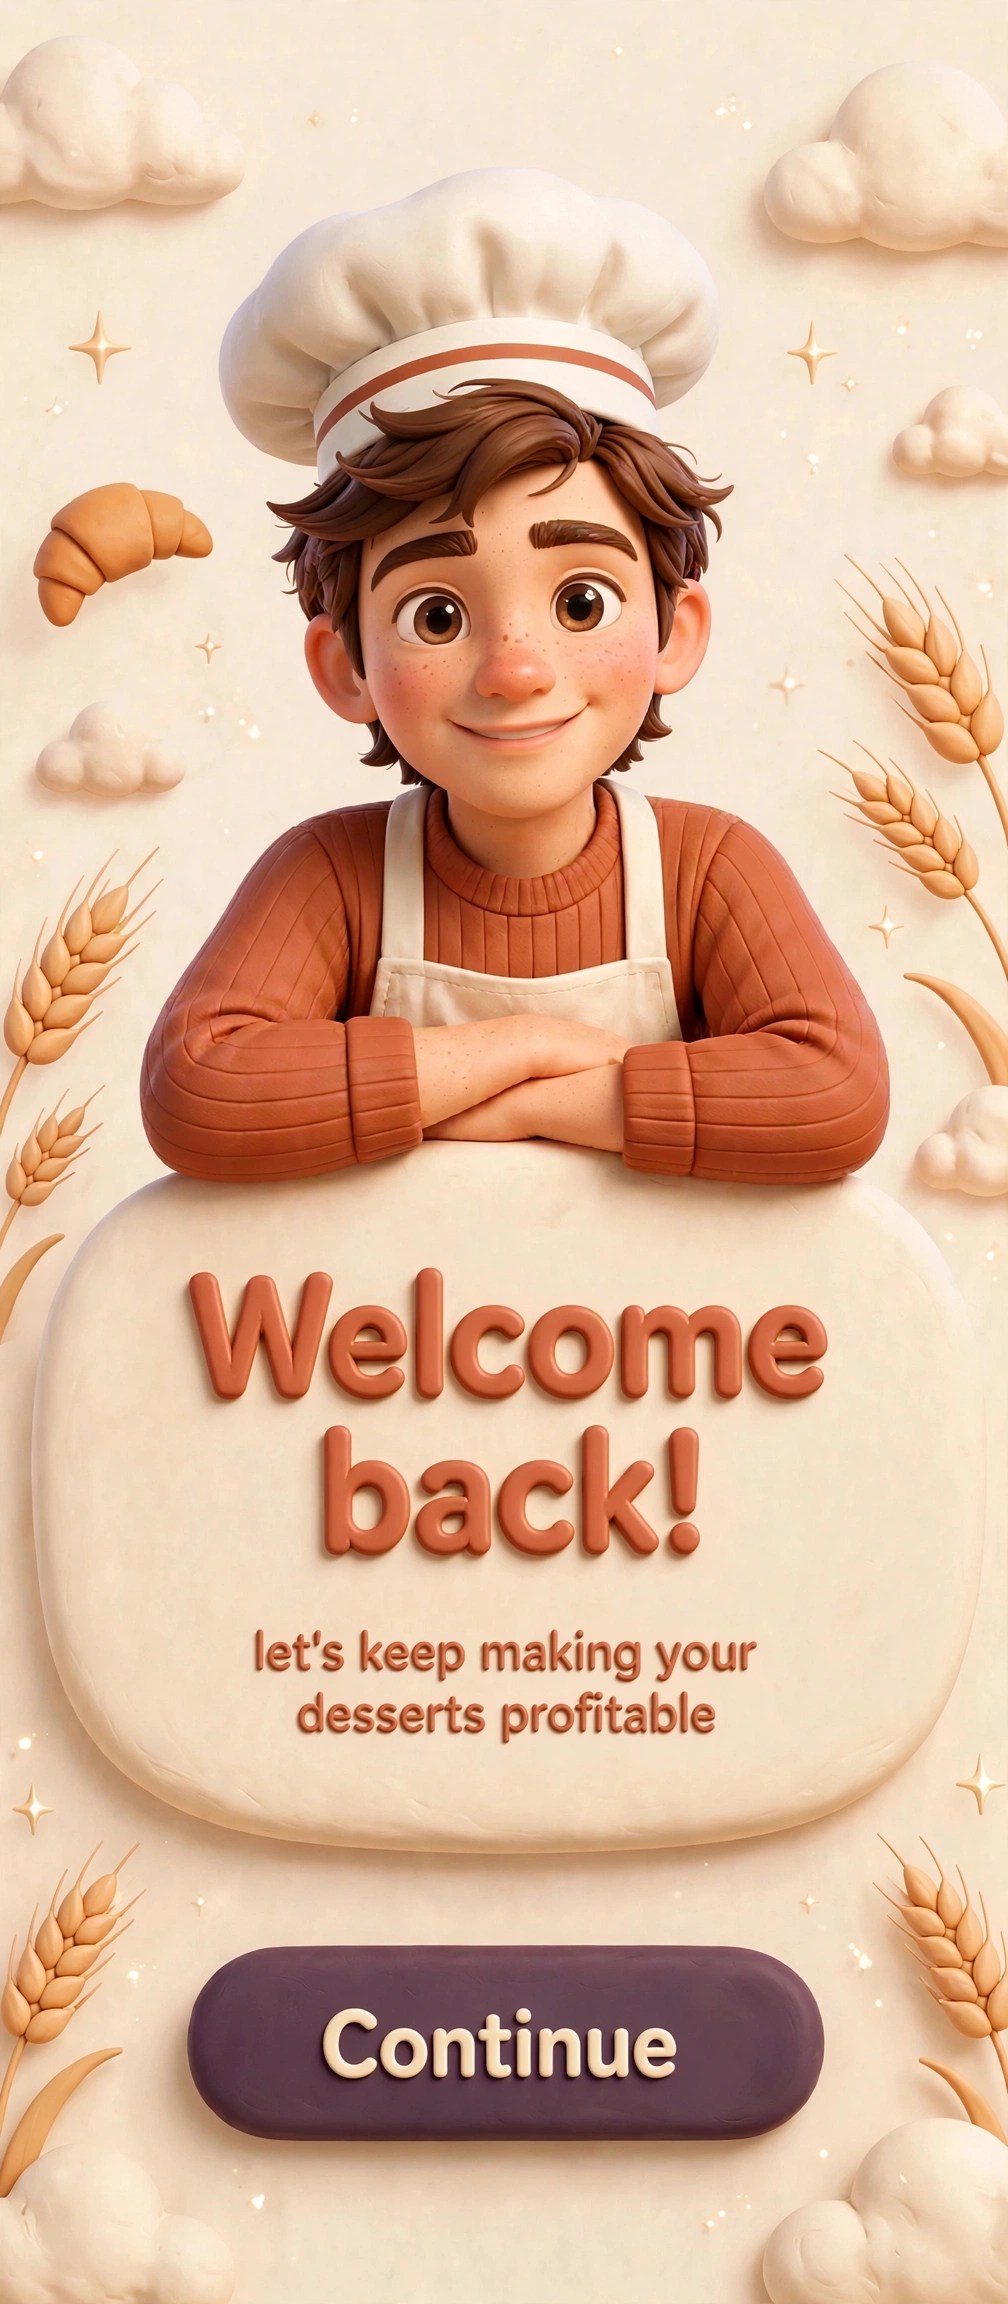
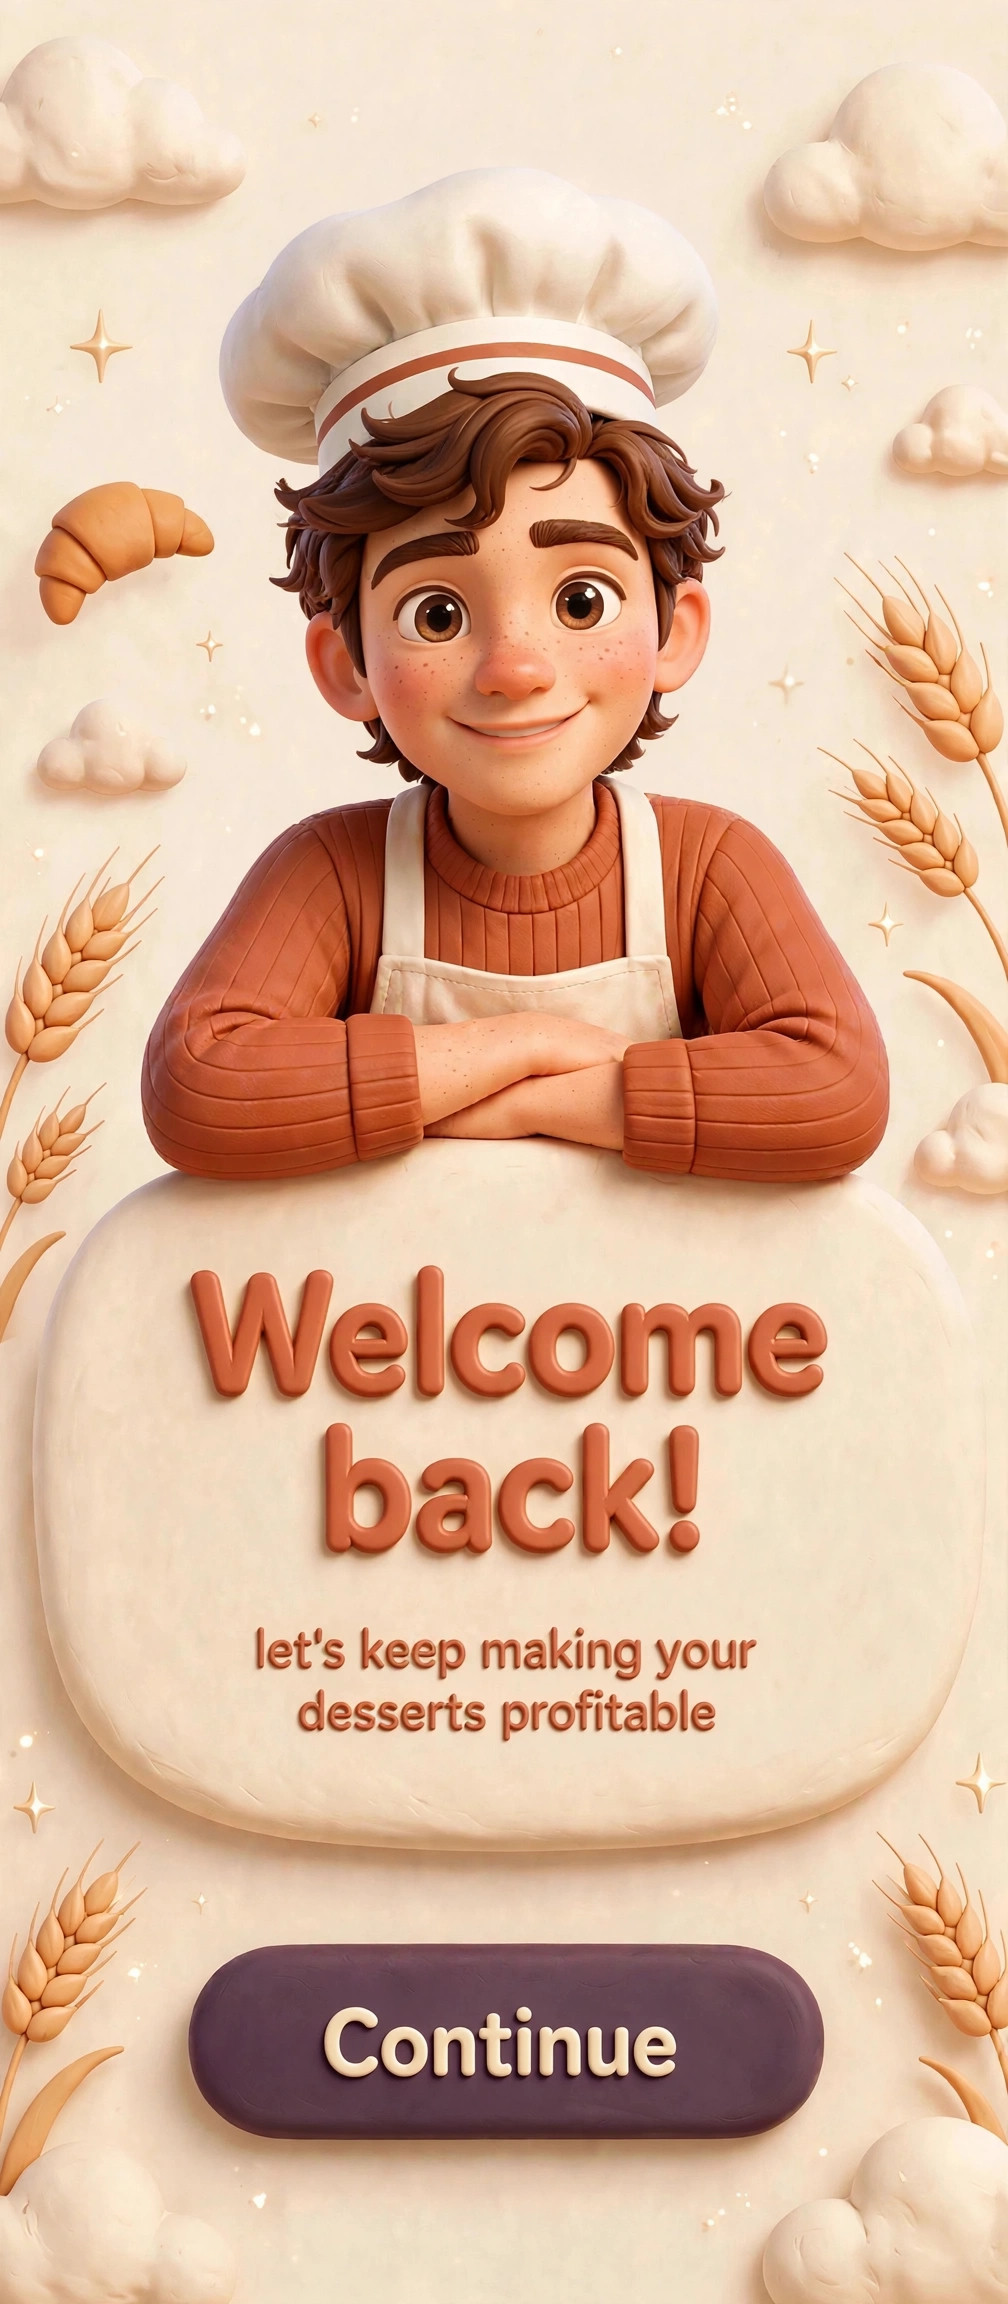
S3: Matt EN/ES regenerados sin gafas (aprobados por Diego) — fallback removido

diff --git a/app.js b/app.js
@@ -162,10 +162,7 @@ function renderBack() {
     m = (alt.indexOf('sofi') === 0) ? 'sofi' : 'matt';
   }
   var img = document.getElementById('backImg');
-  // PENDIENTE Matt ES: aún no hay asset final (el único conocido lleva gafas, rechazado por Diego).
-  // Temporal: con Matt en ES se muestra el arte EN hasta que llegue el final.
   var lang = LANG;
-  if (m === 'matt' && lang === 'es') lang = 'en';
   if (img) {
     img.setAttribute('src', 'img/welcome-back-' + m + '-' + lang + '.jpg');
     img.setAttribute('alt', t('onb.back.alt'));

diff --git a/CHANGELOG.md b/CHANGELOG.md
@@ -4,8 +4,7 @@
 - S3 Bienvenido de nuevo (recurrente): reemplaza el avatar+texto viejo por el **arte welcome back a sangre** del mentor elegido. 4 variantes: `img/welcome-back-{sofi,matt}-{en,es}.jpg`.
 - Sofi EN/ES: finales enviadas por Diego esta noche (1284×2935), integradas como están.
 - Matt EN: `files/prototipo-mentor-hifi/img/mentor-matt-welcomeback.jpg` (sin gafas, verificado visualmente) — 1008×2304.
-- Matt ES: ⏳ **PENDIENTE** — el único conocido (`media_library/image/27/...`) lleva gafas y fue rechazado (Matt no usa gafas). Temporalmente, con Matt en ES, S3 muestra el arte EN (fallback en `renderBack()`); al llegar el final se copia como `img/welcome-back-matt-es.jpg` y se quita el fallback.
-- Nota: existe `files/prototipo-mentor-hifi/img/mentor-matt-welcomeback-es.jpg` SIN gafas (archivo distinto al rechazado, checksums diferentes) — pendiente que Diego confirme si la cara es la correcta; de ser así es un reemplazo de 1 archivo.
+- Matt EN/ES: **regenerados esta noche y aprobados por Diego** — sin gafas (Matt no usa gafas), cara ajustada a la referencia oficial del personaje. La versión con gafas quedó rechazada y eliminada. Fallback Matt+ES→EN removido de `renderBack()`.
 - La variante se elige sola según mentor (S2) + idioma actual (patrón `renderBack()`, como `renderHello()` en S7); al cambiar idioma con S3 visible se re-renderiza. Toque/tecla en el arte → S12 (home).
 - Nuevas claves i18n ES/EN: `onb.back.alt`, `onb.back.aria` (paridad 295/295, 0 faltantes). Etiqueta visible "Mentor UI v4 (2026-10-03)".
 - Alcance: solo S3 (+ CSS/JS/i18n aditivos). Ninguna otra pantalla tocada. Cero CDNs; claro/oscuro intactos.
